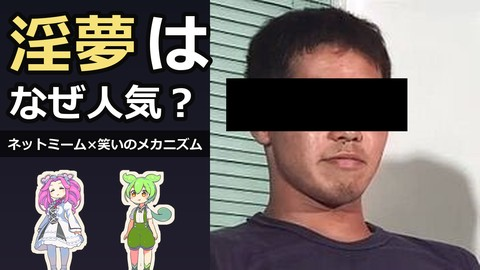
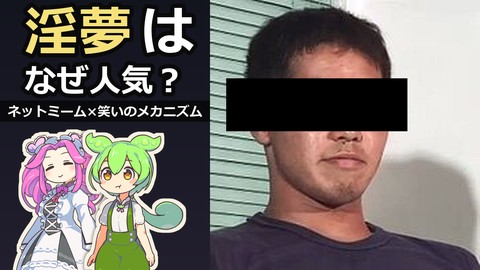
淫夢: サムネ A2 の立ち絵を拡大（上半身が見える配置）し再適用 #32

Changed region(s): [[0.0, 0.4741, 0.4375, 1.0], [0.0, 0.0, 0.4688, 0.4444]]

diff --git a/publish/20260909-inmu-kamishibai/make_thumbs.py b/publish/20260909-inmu-kamishibai/make_thumbs.py
@@ -182,11 +182,13 @@ def make_thumb_a() -> Image.Image:
 
 
 def make_thumb_a2() -> Image.Image:
-    """A案 + 文言を大幅拡大（1行目は2段の特大文字）、左下にめたん・ずんだもんを高さ38%で
-    配置する改訂版（2026-09-09 ユーザー指示: 3案とも文字が画面の1割程度しかなく小さすぎる
-    との指摘を受け、A2 のレイアウトで作り直し。A3・A4は廃止）。
+    """A案 + 文言を大幅拡大（1行目は2段の特大文字）、左下にめたん・ずんだもんを大きく
+    （高さ76%、下端は画面外）配置する改訂版。
 
-    文言ブロック（2段の見出し＋副題）は画面上55%に収め、その下に立ち絵を置く。
+    2026-09-09 二度目のユーザー指示: 「二人が小さすぎる、下半身が画面外にはみ出してよいので
+    腰から上を大きく見せる」との指摘を受け、立ち絵の高さを 38%→76% に拡大。その分の余白を
+    作るため、文言ブロック（2段の見出し＋副題）は上45%に収め、1段目フォントを幅最大値から
+    12%縮める。
     """
     bg = vertical_gradient(W, H, (18, 20, 30), (34, 30, 46))
 
@@ -199,17 +201,21 @@ def make_thumb_a2() -> Image.Image:
     draw = ImageDraw.Draw(bg)
     stroke_big = 11
 
-    # 1行目: 「淫夢は」「なぜ人気？」を2段、幅いっぱいまで拡大（高さ制約は緩め、幅で最大化する）。
+    # 1行目: 「淫夢は」「なぜ人気？」を2段。まず幅いっぱいに最大化し、そこから12%縮めて
+    # 文言ブロックを上45%以内に収める。
     text_max_w = round(left_w * 0.95)
-    f1a = fit_bold_font("淫夢は", max_width=text_max_w, max_height=round(H * 0.42), stroke_width=stroke_big)
-    f1b = fit_bold_font("なぜ人気？", max_width=text_max_w, max_height=round(H * 0.42), stroke_width=stroke_big)
+    f1a_full = fit_bold_font("淫夢は", max_width=text_max_w, max_height=round(H * 0.42), stroke_width=stroke_big)
+    f1b_full = fit_bold_font("なぜ人気？", max_width=text_max_w, max_height=round(H * 0.42), stroke_width=stroke_big)
+    shrink = 0.84
+    f1a = _font(round(f1a_full.size * shrink))
+    f1b = _font(round(f1b_full.size * shrink))
     bbox_1a = draw.textbbox((0, 0), "淫夢は", font=f1a, stroke_width=stroke_big)
     h_1a = bbox_1a[3] - bbox_1a[1]
     bbox_1b = draw.textbbox((0, 0), "なぜ人気？", font=f1b, stroke_width=stroke_big)
     h_1b = bbox_1b[3] - bbox_1b[1]
 
-    line_gap = round(H * 0.02)
-    top_y = round(H * 0.04)
+    line_gap = round(H * 0.008)
+    top_y = round(H * 0.01)
     y1a = top_y + h_1a / 2
     y1b = top_y + h_1a + line_gap + h_1b / 2
     draw_mixed_center(bg, [("淫夢", YELLOW), ("は", WHITE)], left_center_x, round(y1a), f1a, stroke_width=stroke_big)
@@ -218,29 +224,28 @@ def make_thumb_a2() -> Image.Image:
 
     # 2行目（副題）: 半透明の黒帯を敷いてから、幅いっぱいの最大サイズで重ねる。
     stroke_sub = 6
-    f2 = fit_bold_font(LINE2_TEXT_A2, max_width=round(left_w * 0.97), max_height=round(H * 0.12), stroke_width=stroke_sub)
+    f2 = fit_bold_font(LINE2_TEXT_A2, max_width=round(left_w * 0.97), max_height=round(H * 0.07), stroke_width=stroke_sub)
     bbox_2 = draw.textbbox((0, 0), LINE2_TEXT_A2, font=f2, stroke_width=stroke_sub)
     h_2 = bbox_2[3] - bbox_2[1]
-    band_pad = round(H * 0.018)
-    band_top = round(text_block_bottom + H * 0.025)
+    band_pad = round(H * 0.008)
+    band_top = round(text_block_bottom + H * 0.008)
     band_bottom = band_top + h_2 + band_pad * 2
     band = Image.new("RGBA", (left_w, band_bottom - band_top), (0, 0, 0, round(255 * 0.60)))
     bg.alpha_composite(band, (0, band_top))
     y2 = (band_top + band_bottom) / 2
     draw_mixed_center(bg, [(LINE2_TEXT_A2, WHITE)], left_center_x, round(y2), f2, stroke_width=stroke_sub)
 
-    # 文言ブロックは上55%（=H*0.55）に収まっているはずだが、念のため実測でも確認する
-    # （呼び出し側 main() の目視確認に加え、ここではアサーションはせず素通しする）。
-
-    # 立ち絵: 左下、高さ38%で並べる。
-    puppet_h = round(H * 0.38)
+    # 立ち絵: 高さ76%（下端は画面外にはみ出させ、腰から上を大きく見せる）。
+    # 頭頂は画面高さ47%あたり（文言ブロックの下、45〜50%の指示範囲）。ずんだもんを手前に
+    # （後から貼るレイヤーが手前になる）、左下で少し重ねる。
+    puppet_h = round(H * 0.76)
     metan = load_puppet("metan", "smile", puppet_h)
     zun = load_puppet("zundamon", "normal", puppet_h)
-    bottom_y = H - puppet_h
-    metan_cx = round(left_w * 0.28)
-    zun_cx = round(left_w * 0.70)
-    paste(bg, metan, metan_cx - metan.width / 2, bottom_y)
-    paste(bg, zun, zun_cx - zun.width / 2, bottom_y)
+    head_top_y = round(H * 0.47)
+    metan_cx = round(left_w * 0.30)
+    zun_cx = round(left_w * 0.64)
+    paste(bg, metan, metan_cx - metan.width / 2, head_top_y)
+    paste(bg, zun, zun_cx - zun.width / 2, head_top_y)
     return bg
 
 

diff --git a/publish/20260909-inmu-kamishibai/upload-record.md b/publish/20260909-inmu-kamishibai/upload-record.md
@@ -9,3 +9,4 @@
 | v2 | 2026-09-09 | 6nm73T6nrF0 https://youtu.be/6nm73T6nrF0 | 14:28 | 台本v4（S2のTikTok/料理動画コメント欄の2行を書き換え）。v1試写指摘の写真4枚差し替え（S1 old_dvd→DVD棚ストック、S1料理動画は該当ストック未発見のため現状維持、S3 selfie_video女性→男性、S4 whisper→耳打ちが明確な写真）。概要欄 description-v2.txt、サムネA、字幕ja、非公開 | 非公開公開中 |
 
 - 2026-09-09 サムネを A2 に差し替え（ユーザー指示: 二人を小さく表示、文言「淫夢はなぜ人気？」「ネットミーム×笑いのメカニズム」）。youtube_manage.py set-thumbnail で 6nm73T6nrF0 に適用済み。
+- 2026-09-09 A2 を再調整（立ち絵を高さ 76% に拡大、下端は画面外。ユーザー指示「上半身が映っていれば OK」）。6nm73T6nrF0 に再適用。
